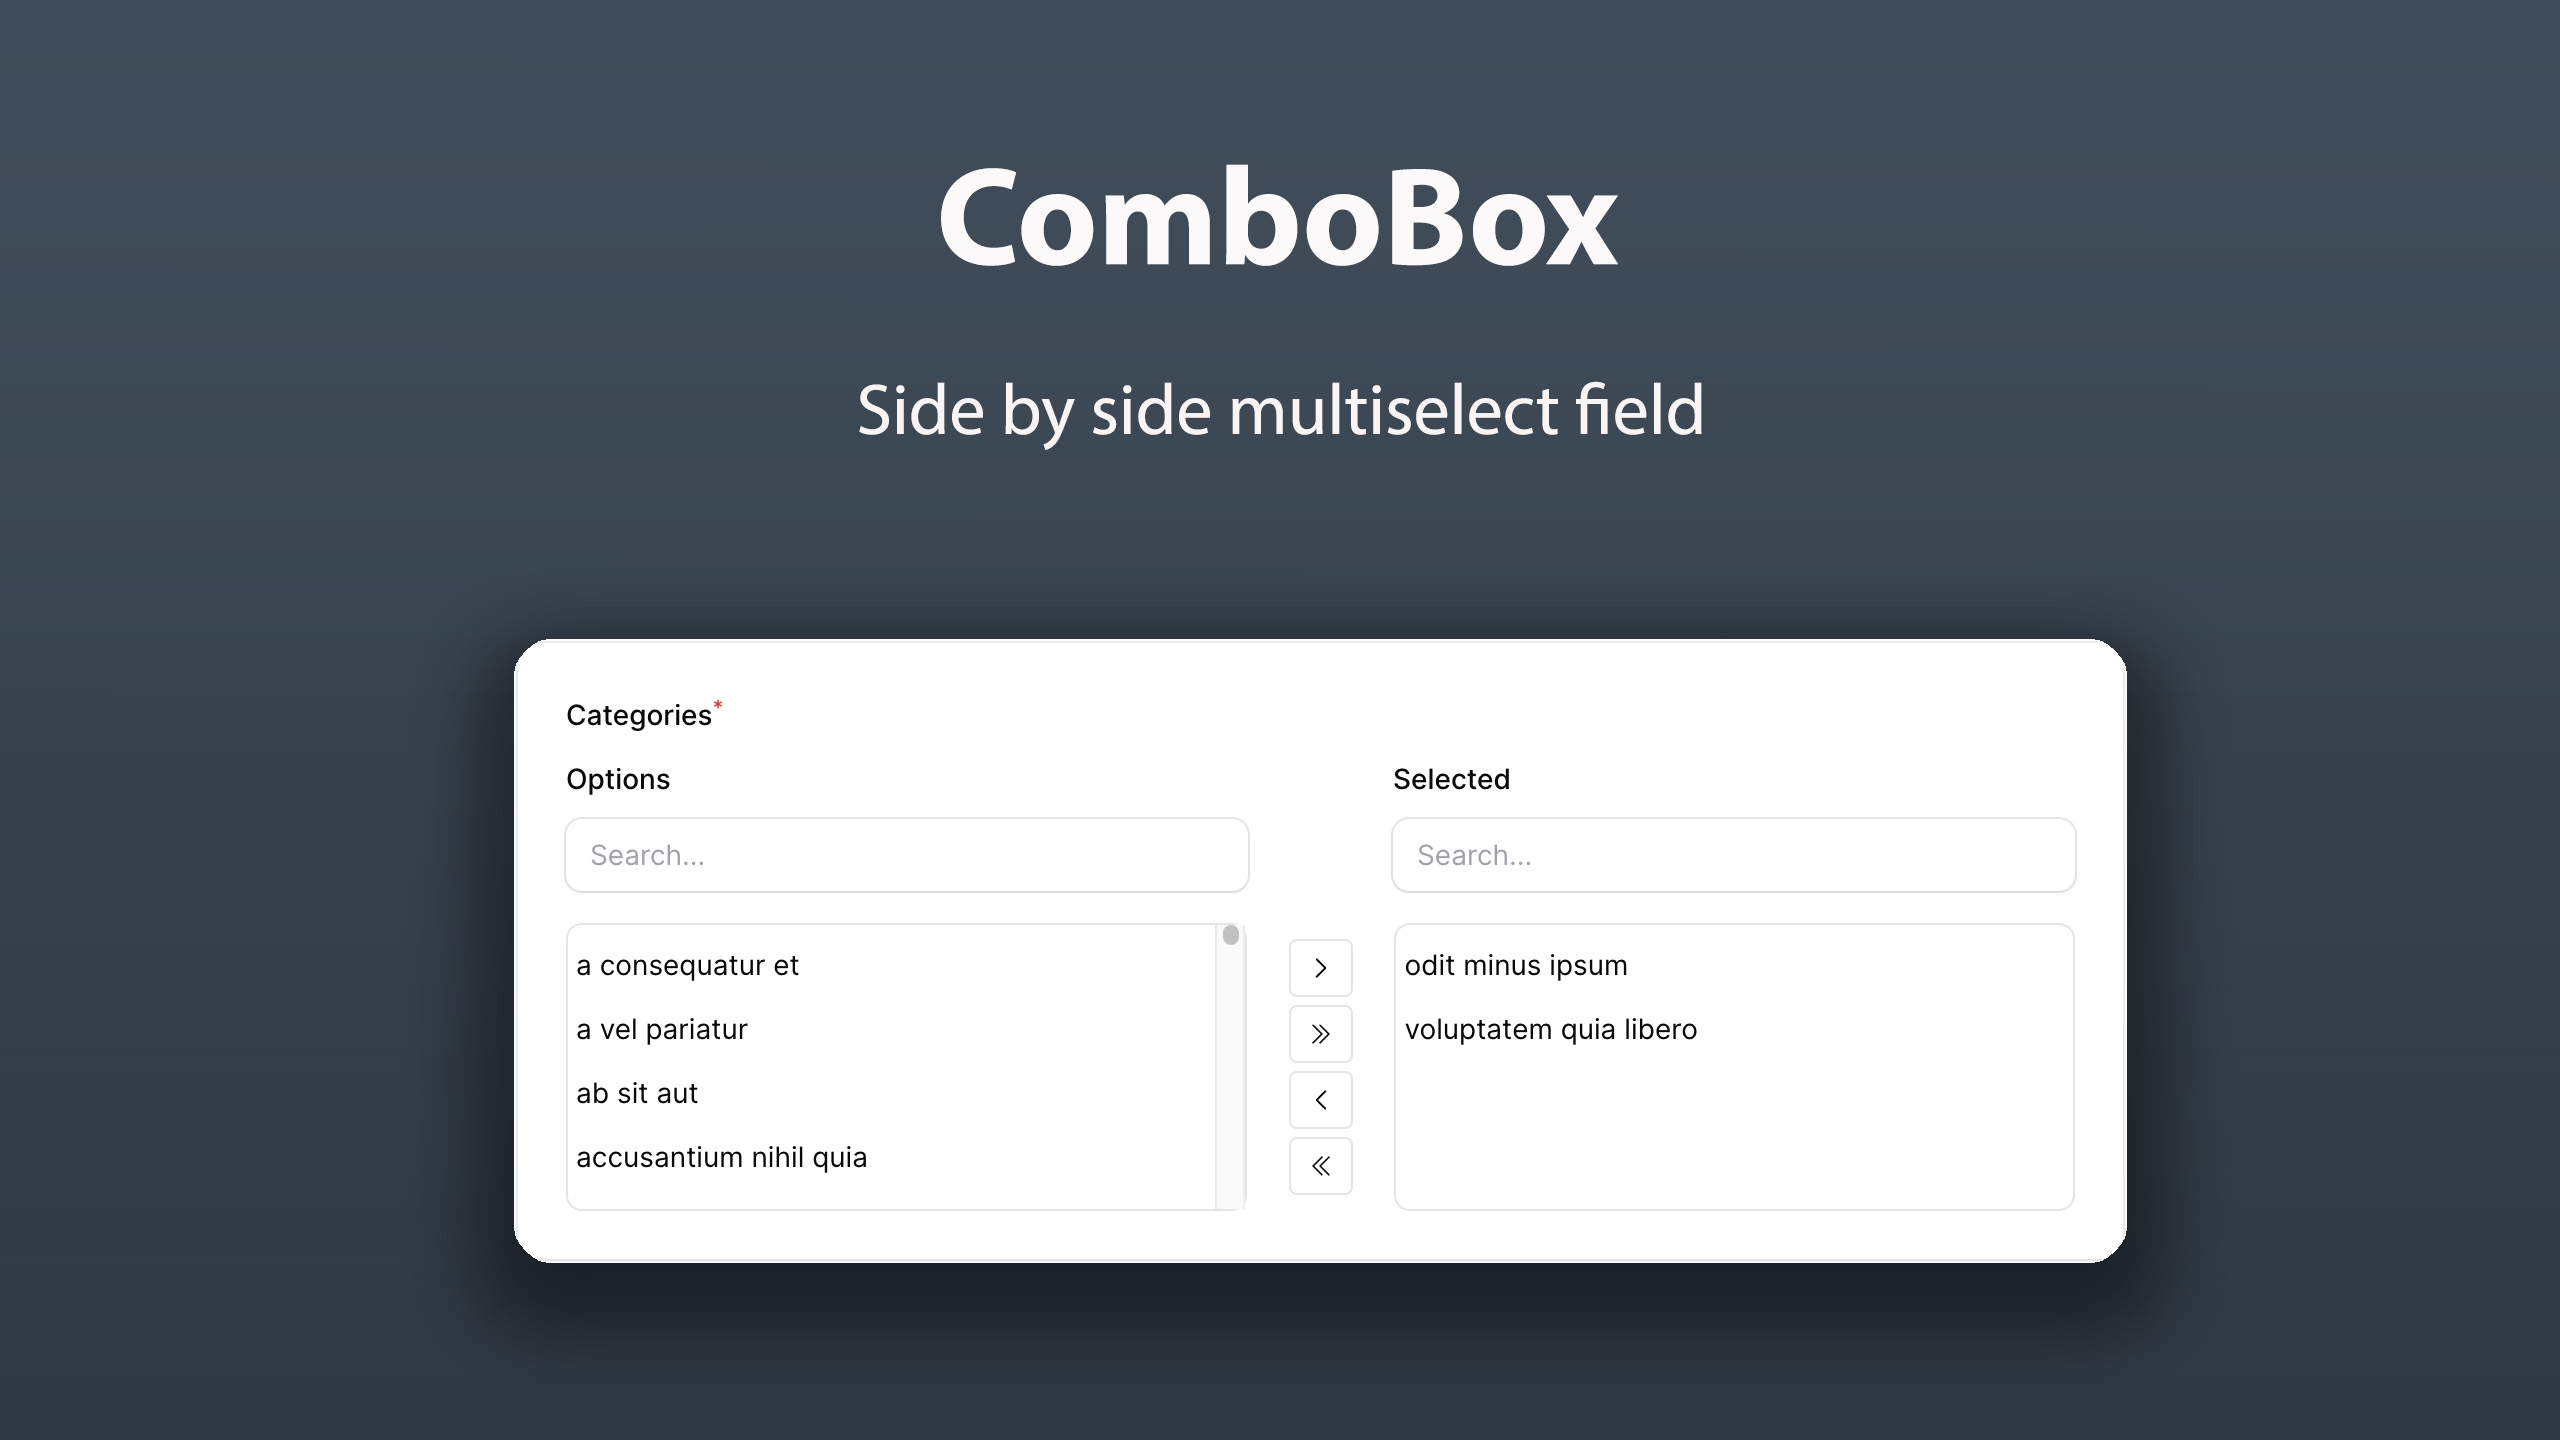
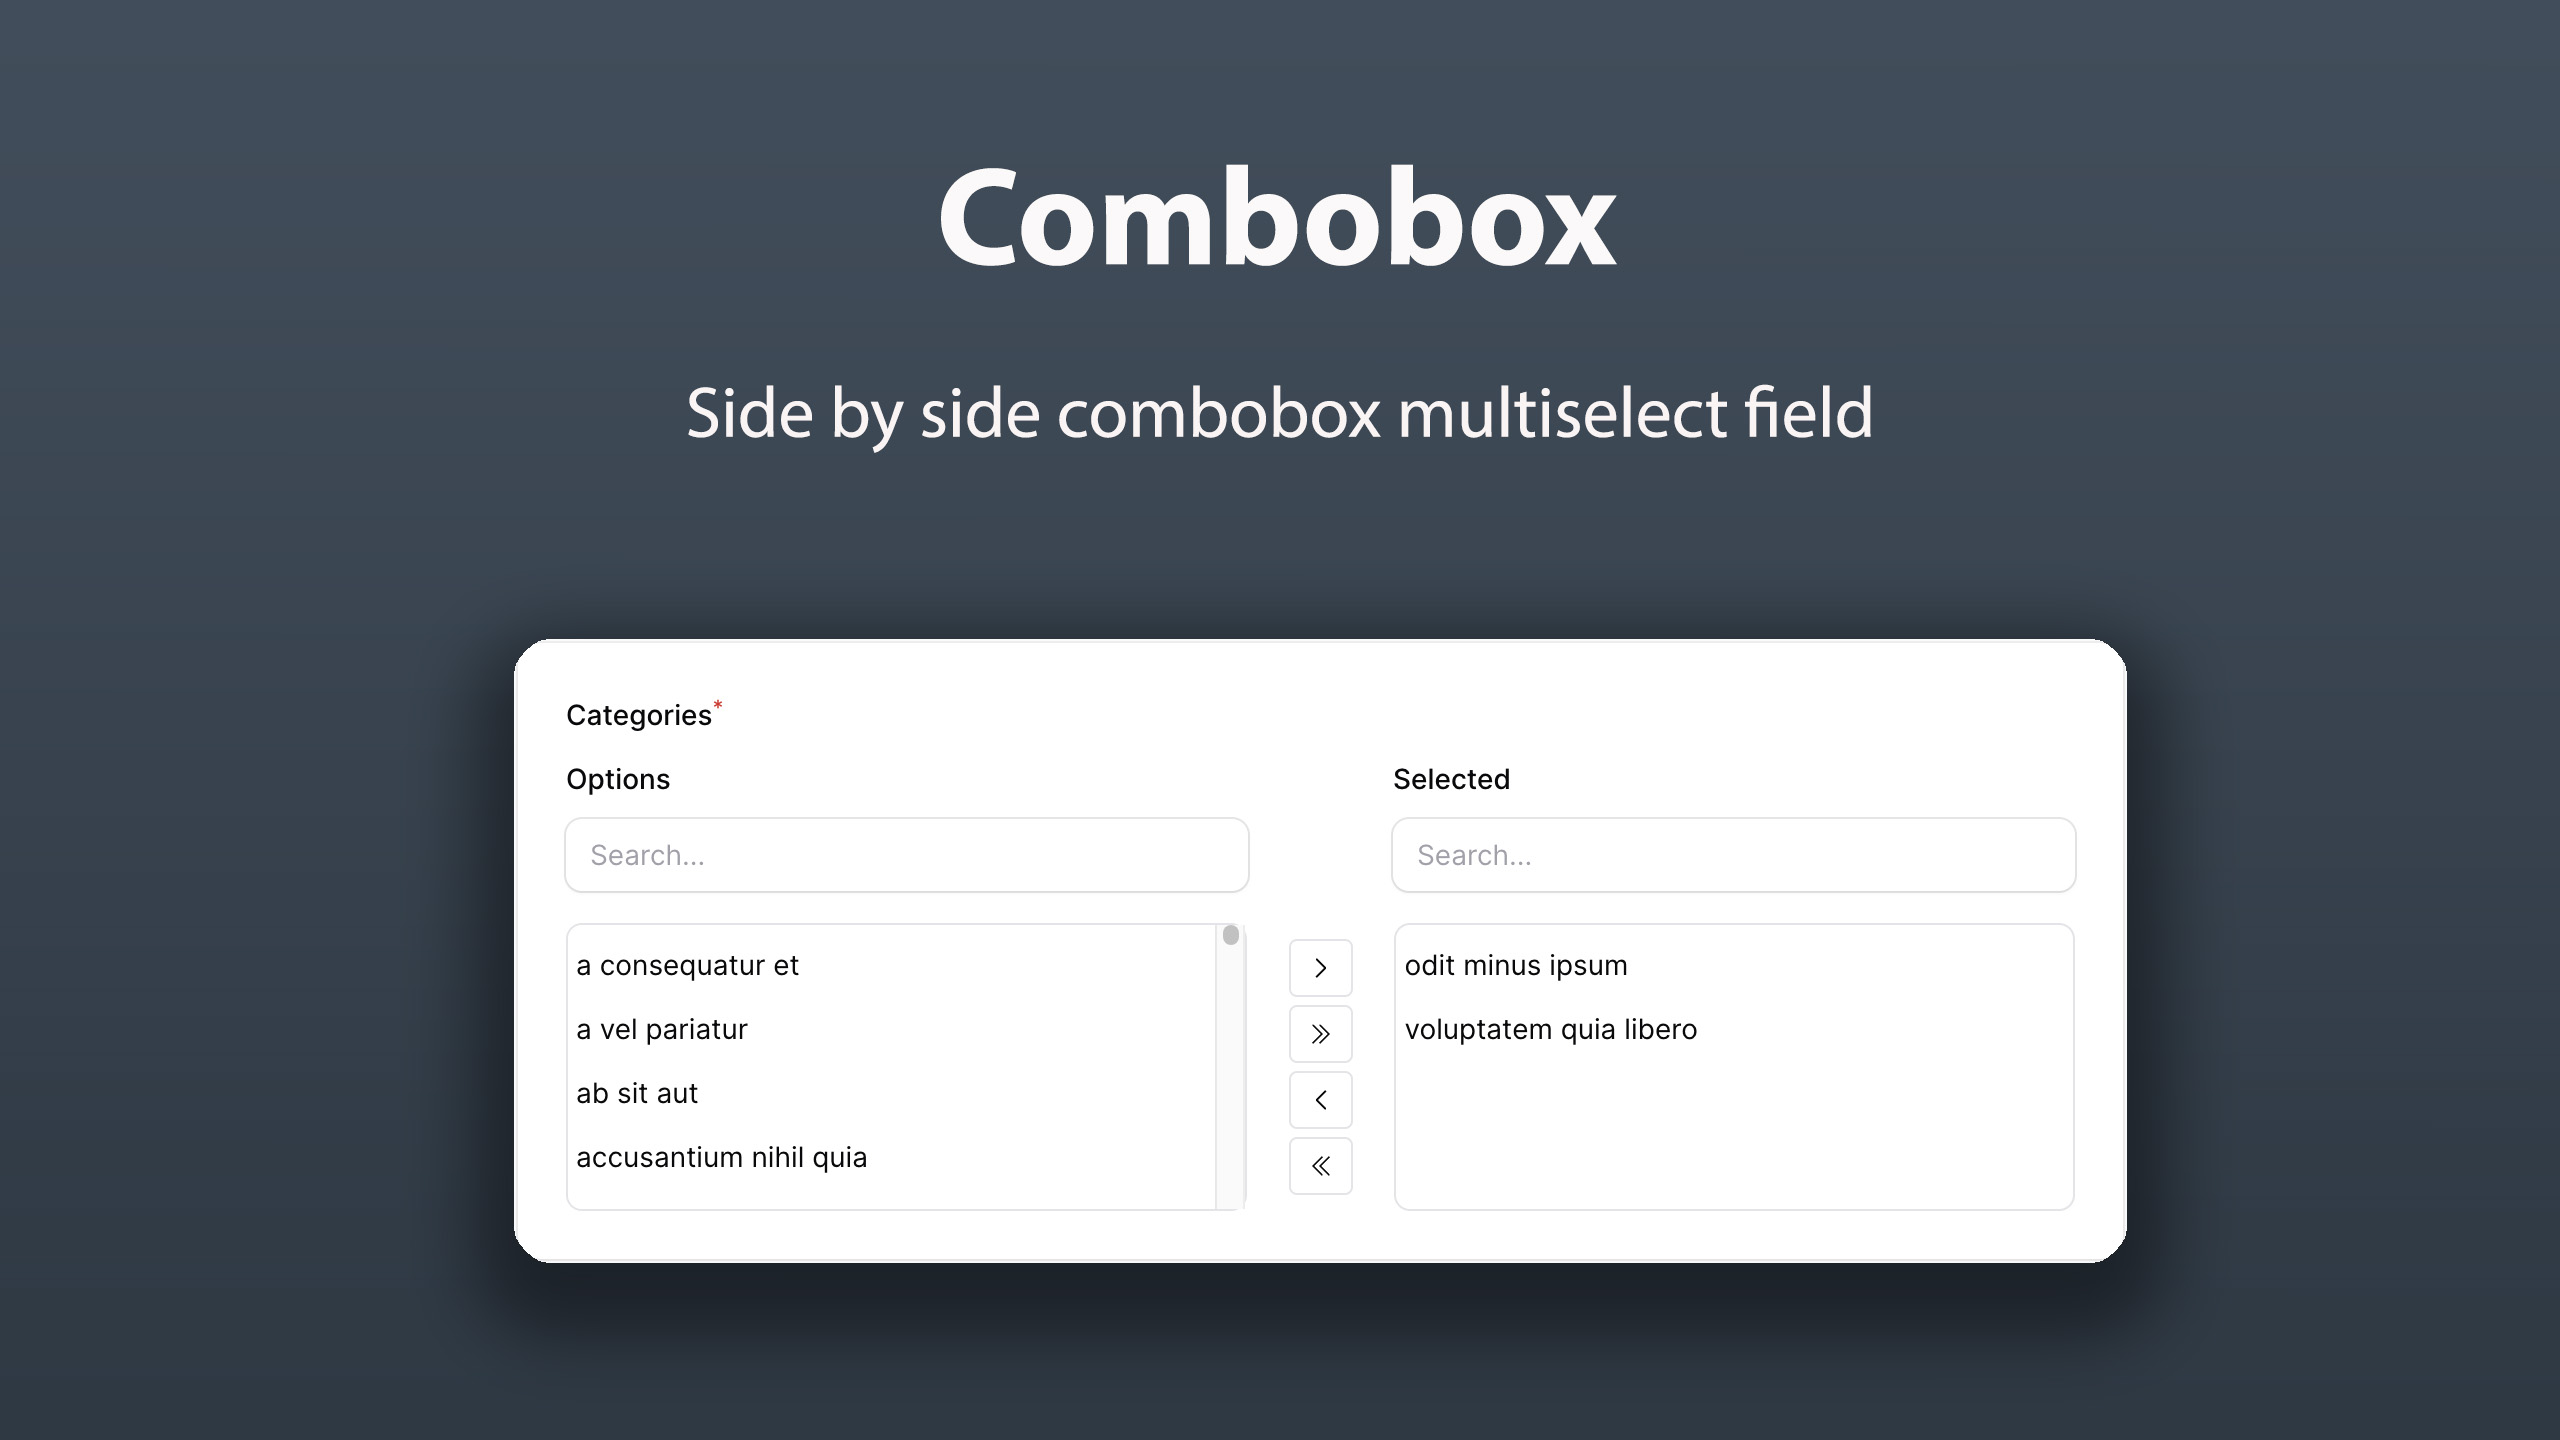
refact: Change namespace and class name

Changed region(s): [[0.25, 0.25, 0.75, 0.3125], [0.5312, 0.0938, 0.5938, 0.1562]]

diff --git a/src/FilamentComboBoxServiceProvider.php b/src/FilamentComboBoxServiceProvider.php
@@ -1,6 +1,6 @@
 <?php
 
-namespace Novadaemon\FilamentComboBox;
+namespace Novadaemon\FilamentCombobox;
 
 use Filament\Support\Assets\Css;
 use Filament\Support\Assets\Asset;
@@ -9,7 +9,7 @@ use Filament\Support\Facades\FilamentAsset;
 use Filament\Support\Assets\AlpineComponent;
 use Spatie\LaravelPackageTools\PackageServiceProvider;
 
-class FilamentComboBoxServiceProvider extends PackageServiceProvider
+class FilamentComboboxServiceProvider extends PackageServiceProvider
 {
     public static string $name = 'filament-combobox';
 

diff --git a/src/ComboBox.php b/src/ComboBox.php
@@ -1,13 +1,13 @@
 <?php
 
-namespace Novadaemon\FilamentComboBox;
+namespace Novadaemon\FilamentCombobox;
 
 use Closure;
 use Filament\Forms\Components\Select;
 use Filament\Forms\Components\Concerns;
 use Filament\Forms\Components\Component;
 
-class ComboBox extends Select
+class Combobox extends Select
 {
     use Concerns\HasOptions;
     use Concerns\HasPivotData;

diff --git a/README.md b/README.md
@@ -1,6 +1,6 @@
 # novadaemon/filament-combobox
 
-Side by side combo box multiselect field to use in your [FilamentPHP](https://filamentphp.com/) forms.
+Side by side combobox multiselect field to use in your [FilamentPHP](https://filamentphp.com/) forms.
 
 <div class="filament-hidden">
     <img src="resources/img/filament-combobox.jpg" alt="Cover"/>
@@ -21,7 +21,7 @@ This package supports Filament 3.x
 Simply use the component as you'd use any other Filament field. It's especially perfect for the resource view page where it blends right in.
 
 ```php
-use Novadaemon\FilamentComboBox\ComboBox;
+use Novadaemon\FilamentCombobox\Combobox;
 
 class FileResource extends Resource
 {
@@ -29,7 +29,7 @@ class FileResource extends Resource
     {
         return $form
             ->schema([
-                ComboBox::make('vegetables')
+                Combobox::make('vegetables')
                 ->options([
                     'carrot' => 'Carrot',
                     'potato' => 'Potato',
@@ -40,12 +40,12 @@ class FileResource extends Resource
 }
 ```
 
-Since the ComboBox component extends the **Filament\Forms\Components\Select** class, it is possible to use almost all methods of the parent component.
+Since the Combobox component extends the **Filament\Forms\Components\Select** class, it is possible to use almost all methods of the parent component.
 
 ### Integrating with an Eloquent relationship
 
 ```php
-use Novadaemon\FilamentComboBox\ComboBox;
+use Novadaemon\FilamentCombobox\Combobox;
 
 class FileResource extends Resource
 {
@@ -53,7 +53,7 @@ class FileResource extends Resource
     {
         return $form
             ->schema([
-                ComboBox::make('categories')
+                Combobox::make('categories')
                 ->relationship('categories', 'name')
             ]);
     }
@@ -65,7 +65,7 @@ class FileResource extends Resource
 ### Enabling search in the boxes
 
 ```php
-use Novadaemon\FilamentComboBox\ComboBox;
+use Novadaemon\FilamentCombobox\Combobox;
 
 class FileResource extends Resource
 {
@@ -73,7 +73,7 @@ class FileResource extends Resource
     {
         return $form
             ->schema([
-                ComboBox::make('categories')
+                Combobox::make('categories')
                 ->relationship('categories', 'name')
                 ->boxSearchs()
             ]);
@@ -90,7 +90,7 @@ class FileResource extends Resource
     {
         return $form
             ->schema([
-                ComboBox::make('categories')
+                Combobox::make('categories')
                 ->relationship('categories', 'name')
                 ->boxSearchs(fn() => auth()->user()->isAdmin())
             ]);
@@ -109,7 +109,7 @@ class FileResource extends Resource
     {
         return $form
             ->schema([
-                ComboBox::make('categories')
+                Combobox::make('categories')
                 ->relationship('categories', 'name')
                 ->height('500px')
             ]);
@@ -128,7 +128,7 @@ class FileResource extends Resource
     {
         return $form
             ->schema([
-                ComboBox::make('categories')
+                Combobox::make('categories')
                 ->relationship('categories', 'name')
                 ->optionsLabel('Available categories')
                 ->selectedLabel('Selected categories')
@@ -146,7 +146,7 @@ class FileResource extends Resource
     {
         return $form
             ->schema([
-                ComboBox::make('categories')
+                Combobox::make('categories')
                 ->relationship('categories', 'name')
                 ->showLabels(false)
             ]);
